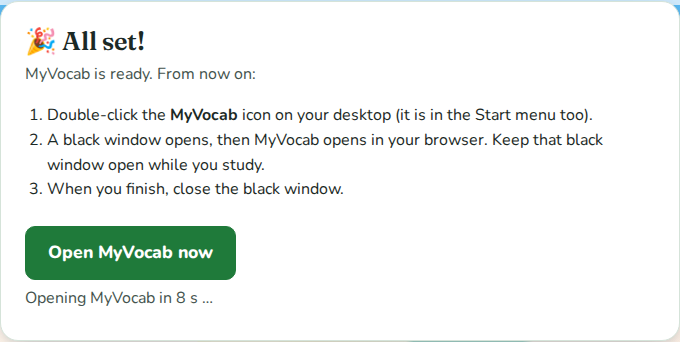
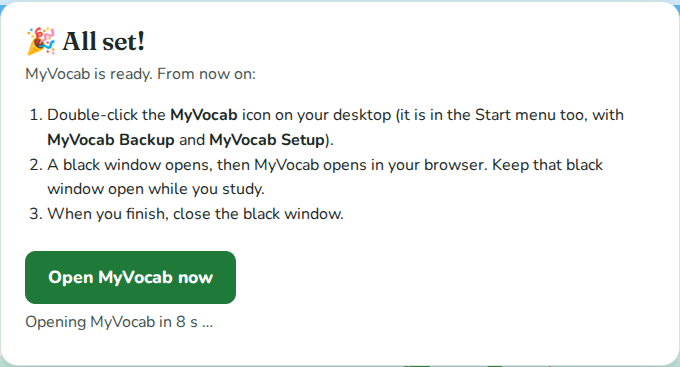
feat: install on Windows from one file
MyVocab-Setup.bat runs tools/windows_setup.ps1, which does every step on
its own:
- downloads MyVocab into %LOCALAPPDATA%\MyVocab, or updates it after
  saving a backup;
- finds a backup of the words (Desktop, Downloads, Documents, USB) and
  copies the keys from an old MyVocab folder;
- installs Python if needed, then opens the setup page.

The Start menu gets MyVocab, MyVocab Backup and MyVocab Setup. The README
guide is now: download one file, double-click it, paste the keys.

diff --git a/tools/setup.html b/tools/setup.html
@@ -210,7 +210,7 @@ button:disabled { opacity: .6; cursor: wait; }
     <section class="card error hidden" id="error-card" role="alert">
         <h2>Something went wrong</h2>
         <p id="error-text"></p>
-        <p>The black MyVocab window shows the details. Check your internet connection and double-click <b>install.bat</b> again.</p>
+        <p>The black MyVocab window shows the details. Check your internet connection and run <b>MyVocab-Setup</b> again.</p>
     </section>
 
     <section class="card keys" id="keys-card" aria-labelledby="keys-title">
@@ -272,7 +272,7 @@ button:disabled { opacity: .6; cursor: wait; }
         <h2 id="finish-title">🎉 All set!</h2>
         <p>MyVocab is ready. From now on:</p>
         <ol>
-            <li>Double-click the <b>MyVocab</b> icon on your desktop (it is in the Start menu too).</li>
+            <li>Double-click the <b>MyVocab</b> icon on your desktop (it is in the Start menu too, with <b>MyVocab Backup</b> and <b>MyVocab Setup</b>).</li>
             <li>A black window opens, then MyVocab opens in your browser. Keep that black window open while you study.</li>
             <li>When you finish, close the black window.</li>
         </ol>
@@ -375,7 +375,7 @@ async function poll() {
     } catch (e) {
         failures += 1;
         if (failures > 5) {
-            $("now").textContent = "The setup window was closed. Double-click install.bat to start again.";
+            $("now").textContent = "The setup window was closed. Run MyVocab-Setup again to finish.";
             return;
         }
     }
@@ -414,7 +414,7 @@ $("save").addEventListener("click", async () => {
 
 $("skip").addEventListener("click", async () => {
     await post("/skip").catch(() => {});
-    $("answered-note").textContent = "OK. You can add the keys later: double-click install.bat again.";
+    $("answered-note").textContent = "OK. To add the keys later, open the Start menu and click “MyVocab Setup”.";
     showAnswered(true);
 });
 

diff --git a/tools/make_shortcut.py b/tools/make_shortcut.py
@@ -77,22 +77,27 @@ def png_to_ico(png_path, ico_path):
 def windows():
     ico = os.path.join(ROOT, "static", "favicon.ico")
     png_to_ico(ICON_PNG, ico)
-    links = [os.path.join(desktop_dir(), "MyVocab.lnk")]
+    # (shortcut, what it opens, its tooltip)
+    links = [(os.path.join(desktop_dir(), "MyVocab.lnk"), "run.bat", "Start MyVocab")]
     programs = windows_folder("Programs")
-    if programs:
-        links.append(os.path.join(programs, "MyVocab.lnk"))  # so it can be found from the Start menu
+    if programs:  # the Start menu
+        links += [
+            (os.path.join(programs, "MyVocab.lnk"), "run.bat", "Start MyVocab"),
+            (os.path.join(programs, "MyVocab Setup.lnk"), "install.bat", "Change your keys or set MyVocab up again"),
+            (os.path.join(programs, "MyVocab Backup.lnk"), "backup.bat", "Save a copy of your words"),
+        ]
     quote = lambda text: "'" + text.replace("'", "''") + "'"  # a PowerShell string literal
     script = "".join(
         f"$s = (New-Object -ComObject WScript.Shell).CreateShortcut({quote(link)});"
-        f"$s.TargetPath = {quote(os.path.join(ROOT, 'run.bat'))}; $s.WorkingDirectory = {quote(ROOT)};"
-        f"$s.IconLocation = {quote(ico)}; $s.Description = 'Start MyVocab'; $s.Save();"
-        for link in links
+        f"$s.TargetPath = {quote(os.path.join(ROOT, target))}; $s.WorkingDirectory = {quote(ROOT)};"
+        f"$s.IconLocation = {quote(ico)}; $s.Description = {quote(tip)}; $s.Save();"
+        for link, target, tip in links
     )
     result = subprocess.run(["powershell", "-NoProfile", "-ExecutionPolicy", "Bypass", "-Command", script],
                             capture_output=True, text=True)
     if result.returncode != 0:
         sys.exit("Could not make the shortcut: " + result.stderr.strip())
-    print("Shortcuts: " + ", ".join(links))
+    print("Shortcuts: " + ", ".join(link for link, _, _ in links))
 
 
 if __name__ == "__main__":

diff --git a/run.py b/run.py
@@ -1,6 +1,6 @@
 """Start MyVocab on this computer, on Linux, macOS or Windows:
 
-    python run.py           (Windows: install.bat the first time, then the desktop icon;
+    python run.py           (Windows: MyVocab-Setup.bat the first time, then the desktop icon;
                              Linux/macOS: ./run.sh)
     python run.py --setup   show the setup page again, to change your keys
 

diff --git a/README.md b/README.md
@@ -32,48 +32,49 @@
 
 ## Install on Windows (no technical knowledge needed)
 
-You download one folder, double-click one file, and wait. MyVocab installs
-everything it needs, shows a progress bar, and puts a **MyVocab** icon on your
-desktop. After that, you only click the icon.
+Download **one file** and double-click it. A window opens and does every step
+by itself, with a progress bar. At the end, a **MyVocab** icon is on your
+desktop, and from then on you only click that icon.
 
 ### The first time (about 5 minutes, with internet)
 
-**Step 1. Download MyVocab**
+**Step 1. Download the setup file**
 
-1. Open <https://github.com/ntuanh/MyVocab>.
-2. Click the green **Code** button, then **Download ZIP**.
-3. Open your **Downloads** folder. Right-click **MyVocab-main.zip**, choose
-   **Extract All...**, pick **Documents** and click **Extract**.
+<p align="center"><a href="https://github.com/ntuanh/MyVocab/releases/latest/download/MyVocab-Setup.bat"><b>⬇ Download MyVocab-Setup.bat</b></a></p>
 
-> [!IMPORTANT]
-> Keep the folder where you extracted it (for example *Documents\MyVocab-main*).
-> The desktop icon opens MyVocab from this folder, so do not delete or move it.
+If the browser warns about the file, choose **Keep** (in Edge: click **...** next to the file first, then **Keep**).
 
-**Step 2. Moving from another computer? Bring your words** (new users: skip this)
-
-1. On the **old** computer, double-click **backup** (`backup.bat`) in the
-   MyVocab folder. (On Linux: `python3 tools/local_db.py backup`.)
-2. Copy the **backup** folder from the old MyVocab folder into the new one.
-
-Do this before step 3: the first start loads your newest backup.
-
-**Step 3. Double-click `install`** (`install.bat`) in the MyVocab folder
+**Step 2. Double-click `MyVocab-Setup`** (in your **Downloads** folder)
 
 If a blue box says *Windows protected your PC*, click **More info**, then
-**Run anyway**. Then MyVocab installs itself:
+**Run anyway**. A window opens and works through 4 steps by itself:
 
-1. **Python** (only if this computer does not have Python 3.12 yet). A small
-   window with a progress bar downloads and installs it. You do not need to
-   click anything.
-2. **The setup page** opens in your browser. Its progress bar shows each step:
-   installing packages, preparing your database, and adding the desktop icon.
+| | What the window does | Do you need to do anything? |
+| :---: | :--- | :--- |
+| 1 | Downloads MyVocab into its own folder | No |
+| 2 | Looks for your words and keys from before: a backup file (`myvocab-....sql`) on the Desktop, in Downloads or Documents, or on a USB stick, and the keys in an old MyVocab folder | If it finds a backup, press **Enter** to load it |
+| 3 | Installs Python 3.12 if the computer does not have it. A small window shows its progress bar | No |
+| 4 | Opens the **setup page** in your browser: a progress bar for installing packages, preparing your database and adding the icons | Paste your keys (step 3 below) |
 
 <p align="center"><img src="./images/setup-progress.png" alt="The setup page: a progress bar at 46% while packages install" width="560"></p>
 
 If Windows Firewall asks about *Python* or *postgres*, click **Cancel**.
 MyVocab only talks to your own computer.
 
-**Step 4. Paste your free keys** into the box on the setup page, while the bar runs
+> [!NOTE]
+> **Moving from another computer?** Before step 2, make a backup on the old
+> computer: Start menu → **MyVocab Backup** (or double-click **backup** in the
+> old MyVocab folder). Put the `myvocab-<date>.sql` file it makes on this
+> computer's **Desktop** or on a USB stick. Step 2 finds it.
+
+**No file wanted?** Press **Windows + R**, paste this line and press **Enter**.
+It does exactly the same:
+
+```
+powershell -ExecutionPolicy Bypass -c "irm https://raw.githubusercontent.com/ntuanh/MyVocab/main/tools/windows_setup.ps1 | iex"
+```
+
+**Step 3. Paste your free keys** into the box on the setup page, while the bar runs
 
 > [!TIP]
 > **Gemini key** (needed: meanings, examples, Vietnamese, marking your writing)
@@ -94,9 +95,10 @@ message means the key was copied wrong: copy it again and paste it.
 <p align="center"><img src="./images/setup-keys.png" alt="The keys box with Get a Gemini key and Get a Pexels key buttons, paste fields and a password" width="560"></p>
 
 No keys yet? Click **Skip for now**. Your saved words, Exam, Listening and
-Reading still work. To add the keys later, double-click **install** again.
+Reading still work. To add the keys later: Start menu → **MyVocab Setup**.
+If step 2 found your keys in an old MyVocab folder, they are already filled in.
 
-**Step 5. Done.** When the bar reaches 100%, MyVocab opens by itself.
+**Step 4. Done.** When the bar reaches 100%, MyVocab opens by itself.
 
 <p align="center"><img src="./images/setup-done.png" alt="All set: from now on double-click the MyVocab icon on your desktop" width="560"></p>
 
@@ -110,28 +112,36 @@ Reading still work. To add the keys later, double-click **install** again.
 Closed the browser tab by mistake? Double-click the icon again: it only
 opens the page again.
 
-**Once a week**, double-click **backup** (`backup.bat`) in the MyVocab folder.
-That keeps a copy of your words.
+The Start menu also has:
+
+| Start menu | What it does |
+| :--- | :--- |
+| **MyVocab** | Starts MyVocab (same as the desktop icon) |
+| **MyVocab Backup** | Saves a copy of your words and opens the folder it is in. Do this **once a week** |
+| **MyVocab Setup** | Opens the setup page again, to change your keys or password |
+
+### Getting a new version
+
+Double-click **MyVocab-Setup** again. It saves a backup of your words first,
+then downloads the new version. Your words, keys and backups are kept.
 
 ### If something goes wrong
 
 | You see | Do this |
 | :--- | :--- |
-| *Python could not be installed automatically* | Install it yourself: <https://www.python.org/ftp/python/3.12.10/python-3.12.10-amd64.exe>. Tick **Add python.exe to PATH**, click **Install Now**, then double-click **install** again. |
-| *Installing packages failed* | Check your internet and double-click **install** again. If it still fails: delete the **.venv** folder inside MyVocab and try once more. |
+| The browser will not download the file | Use the **Windows + R** line above instead. |
+| *The setup stopped* | Check your internet and double-click **MyVocab-Setup** again. It continues where it stopped. |
+| *Python could not be installed automatically* | Install it yourself: <https://www.python.org/ftp/python/3.12.10/python-3.12.10-amd64.exe>. Tick **Add python.exe to PATH**, click **Install Now**, then run **MyVocab-Setup** again. |
+| *Installing packages failed* | Check your internet and run **MyVocab-Setup** again. If it still fails: delete the **.venv** folder in the MyVocab folder (see below) and try once more. |
 | The setup page shows *Something went wrong* | Read the last lines in the black window: they say what is missing. Restarting the computer and trying again often helps. |
 | The browser says *This site can't be reached* | Wait 10 seconds and refresh the page. Make sure the black window is still open. |
-| No icon on the desktop | Double-click **install** again: it makes the icon again. |
-| Your old words are not there | You started MyVocab before copying the **backup** folder. If you have not saved anything new on this computer yet, close MyVocab and delete the **.localdb** folder inside MyVocab. Then double-click **install** again, and it loads the backup. |
+| No icon on the desktop | Start menu → **MyVocab Setup** (or run **MyVocab-Setup** again): it makes the icons again. |
+| Your old words are not there | The backup was not found in step 2. Close MyVocab, delete the **.localdb** folder in the MyVocab folder, put the backup file on the Desktop, and run **MyVocab-Setup** again. Only do this if you have not saved new words on this computer yet. |
 | *Out of quota*, or the AI marking stops | The free AI allows about 20 requests a day. Try again tomorrow. |
 
-### Getting a new version of MyVocab
-
-1. Double-click **backup** in your current MyVocab folder.
-2. Download and extract the new ZIP (step 1) into a **new** folder.
-3. Copy the **backup** folder and the **.env** file (your keys) into the new folder.
-4. Double-click **install** in the new folder. Your words are loaded and the
-   desktop icon now opens the new folder. You can then delete the old folder.
+**Where is the MyVocab folder?** Press **Windows + R**, type
+`%LOCALAPPDATA%\MyVocab` and press **Enter**. It holds your keys (`.env`), your
+database (`.localdb`) and your backups (`backup`).
 
 ---
 
@@ -153,10 +163,20 @@ On Ubuntu or Linux Mint, also run `sudo apt install python3-venv` once.
 
 ### Windows
 
-See [Install on Windows](#install-on-windows-no-technical-knowledge-needed):
-double-click **`install.bat`**. If Python 3.12 is missing, it installs it for
-this user (`tools/get_python.ps1`, no administrator rights needed). It makes
-desktop and Start menu icons that open `run.bat`. `backup.bat` saves your words.
+See [Install on Windows](#install-on-windows-no-technical-knowledge-needed).
+`MyVocab-Setup.bat` (attached to each GitHub release) runs
+`tools/windows_setup.ps1` from GitHub. That script:
+
+- downloads the `main` branch into `%LOCALAPPDATA%\MyVocab`. On an update, it
+  makes a backup first;
+- finds a `myvocab-*.sql` backup and an old `.env` (only its keys are copied);
+- installs Python 3.12 for this user if it is missing (`tools/get_python.ps1`,
+  no administrator rights needed);
+- runs `install.bat` (`run.bat --setup`).
+
+The shortcuts open `run.bat` (MyVocab), `backup.bat` (MyVocab Backup) and
+`install.bat` (MyVocab Setup). In a cloned or extracted folder, double-click
+`install.bat` the first time.
 
 ### What the first run does
 
@@ -173,7 +193,7 @@ desktop and Start menu icons that open `run.bat`. `backup.bat` saves your words.
 - starts the app at http://127.0.0.1:5000, and the setup page moves on to it.
   If MyVocab is already running, the shortcut only opens the browser.
 
-To change the keys later, run `python3 run.py --setup` (Windows: `install.bat`),
+To change the keys later, run `python3 run.py --setup` (Windows: *MyVocab Setup* in the Start menu),
 or edit `.env` (the [table below](#environment-variables) says what each key is
 for). Closing the window (or Ctrl+C) stops the app and its database.
 
@@ -341,11 +361,13 @@ MyVocab/
 │   ├── local_db.sh       # Same, for the old command
 │   ├── make_shortcut.py  # Puts a MyVocab icon on the desktop and in the menu (Linux, Windows)
 │   ├── setup.html        # The setup page: progress bar and the box for your keys
+│   ├── windows_setup.ps1 # What MyVocab-Setup.bat runs: download, find backup and keys, set up
 │   └── get_python.ps1    # Installs Python 3.12 on Windows when it is missing
 │
 ├── run.py                # Sets up and starts the app on your computer (any system)
 ├── run.sh                # Starts it on Linux and macOS
-├── install.bat           # Windows, the first time: installs and sets up everything (double-click)
+├── MyVocab-Setup.bat     # Windows: the one file to download; installs or updates everything
+├── install.bat           # Windows: sets up this folder and shows the setup page (run.bat --setup)
 ├── run.bat               # Starts it on Windows (what the desktop icon opens)
 ├── backup.bat            # Saves your words to backup/ on Windows (double-click)
 ├── .env.example          # Template for .env (your local keys)
